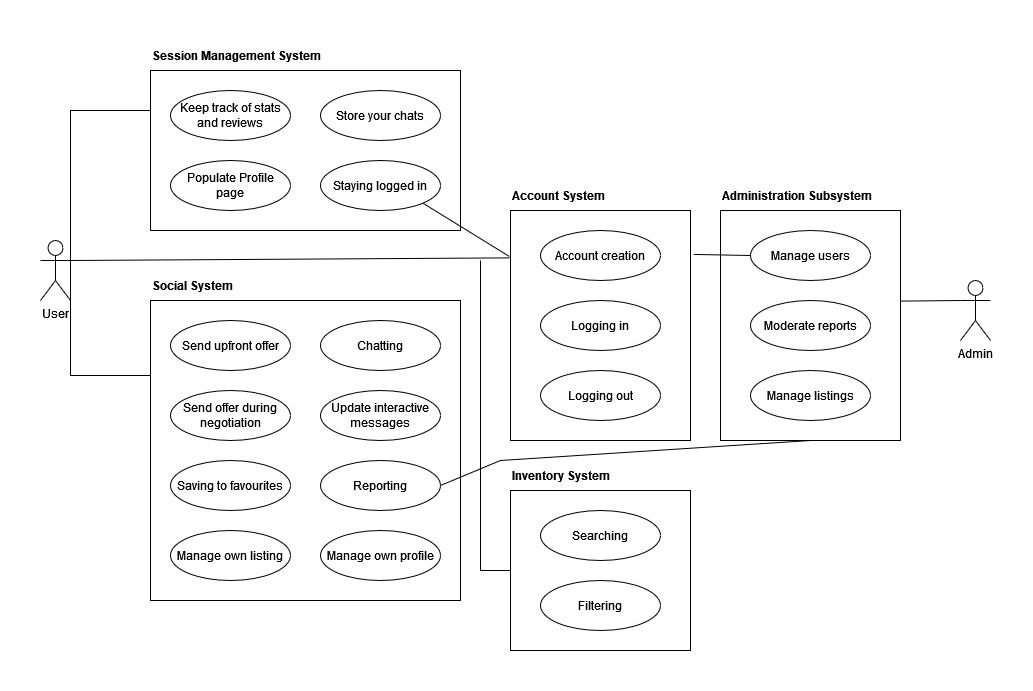
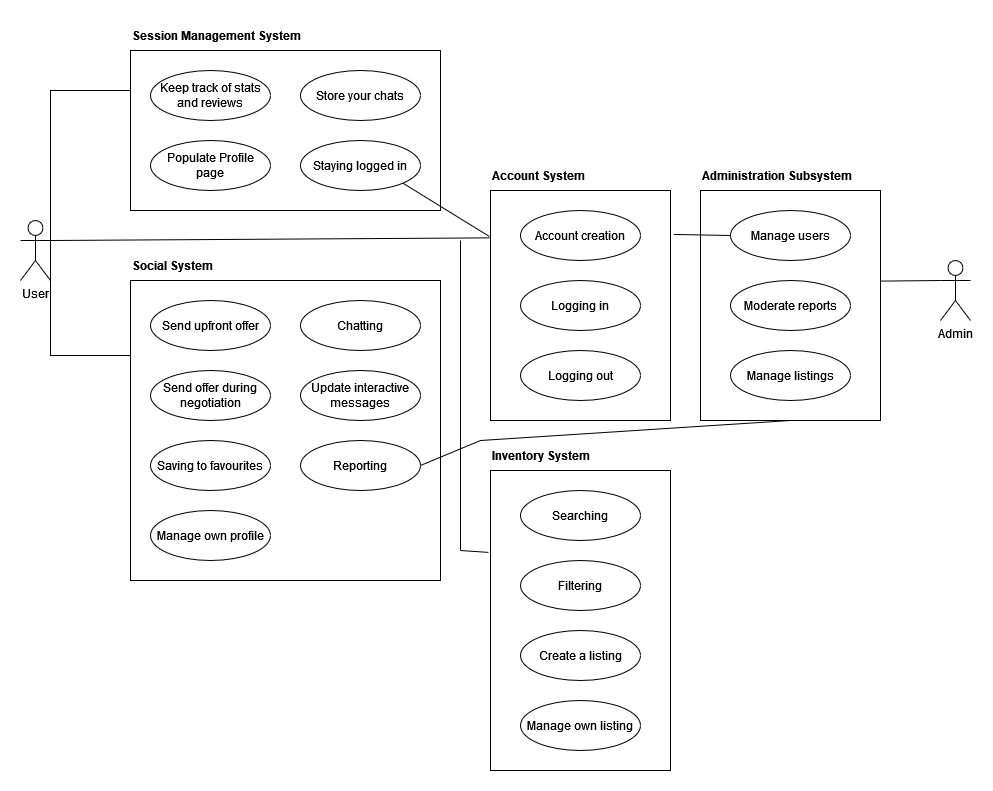
Added Use Case Placeholders

diff --git a/SoftwareRequirementsSpecification.md b/SoftwareRequirementsSpecification.md
@@ -34,7 +34,10 @@ A mask for payments will be provided, but this functionality will only be stubbe
 | tbd         | to be determined                       |
 
 ### 1.4	References
-_Following soon_
+| Title           | Organisation |
+| --------------- | ------------ |
+| Code Repository | Team cybuy   |
+| Blog            | Team cybuy   |
 
 ### 1.5	Overview
 Over the following chapters a concrete vision for our project will form, starting with the Overall Description and slowly narrowing down to a more concrete idea.
@@ -77,38 +80,32 @@ Testing:
 ### 3.1	Functionality
 The following will detail the previously described Use Cases and their respective functionality.
 
--	3.1.1 Posting a listing
--	3.1.2 View listings
--	3.1.3 Filter listings
--	3.1.4 Edit listings
--	3.1.5 Account System
--	3.1.6 Messaging subsystem
--	3.1.7 Negotiation functionality
--	3.1.8 Stubbed payment functionality
-
-#### 3.1.1 Posting a listing
-_Following soon_
-
-#### 3.1.1 View listings
-_Following soon_
-
-#### 3.1.1 Filter listings
-_Following soon_
-
-#### 3.1.1 Edit listings
-_Following soon_
-
-#### 3.1.1 Account System
-_Following soon_
-
-#### 3.1.1 Messaging subsystem
-_Following soon_
-
-#### 3.1.1 Negotiation functionality
-_Following soon_
-
-#### 3.1.1 Stubbed payment functionality
-_Following soon_
+-	Session Management System
+    -   [Keep track of stats and reviews](/use_cases/KeepTrackOfStatsAndReviews.md)
+    -   [Store your chats](/use_cases/StoreYourChats.md)
+    -   [Populate profile page](/use_cases/PopulateProfilePage.md)
+    -   [Staying logged in](/use_cases//StayingLoggedIn.md)
+-	Social System
+    -   [Send upfront offer](/use_cases/SendUpfrontOffer.md)
+    -   [Chatting](/use_cases/Chatting.md)
+    -   [Send offer during negotiation](/use_cases/SendOfferDuringNegotiations.md)
+    -   [Update interactive message](/use_cases/UpdateInteractiveMessage.md)
+    -   [Saving to favourites](/use_cases/SavingToFavourites.md)
+    -   [Reporting](/use_cases/Reporting.md)
+    -   [Manage own profile](/use_cases/ManageOwnProfile.md)
+-	Account System
+    -   [Account creation](/use_cases/AccountCreation.md)
+    -   [Logging in](/use_cases/LoggingIn.md)
+    -   [Logging out](/use_cases/LogginOut.md)
+-	Inventory System
+    -   [Searching](/use_cases/Searching.md)
+    -   [Filtering](/use_cases/Filtering.md)
+    -   [Create a listing](/use_cases/CreateAListing.md)
+    -   [Manage own listing](/use_cases/ManageOwnListing.md)
+-	Administration Subsystem
+    -   [Manage users](/use_cases/ManageUsers.md)
+    -   [Moderate reports](/use_cases/ModerateReports.md)
+    -   [Manage listings](/use_cases/ManageListings.md)
 
 ### 3.2	Usability
 In part fueled by our own frustration with the widely inconsistent looks across subpages of popular sites we plan to minimize clutter and make everything easy to read and use.

diff --git a/use_cases/KeepTrackOfStatsAndReviews.md b/use_cases/KeepTrackOfStatsAndReviews.md
@@ -1,0 +1,25 @@
+# Use-Case Specification: Keep track of stats and reviews
+
+## 1. Brief Description
+This use case of the backend allows storing and restoring the reviews, rating and stats of a user.
+- Niceness rating (based on user feedback)
+- Reply speed (measured automatically)
+- Shipping speed (based on user feedback)
+- Feedback text / Review
+- Amount of items sold (have to be marked as sold, not removed from the platform)
+- Account age
+
+## 2. Mockup
+_Following soon_
+
+## 3. Preconditions
+- The user a review submitted for exists
+- The user queried for exists
+- The user giving the rating is entitled / did business with the other user
+
+## 4. Postconditions
+- The data is updated upon posting a new review
+- Idealy the data is displayed on the profile page
+
+## 5. Effort Estimation
+_Following soon_
